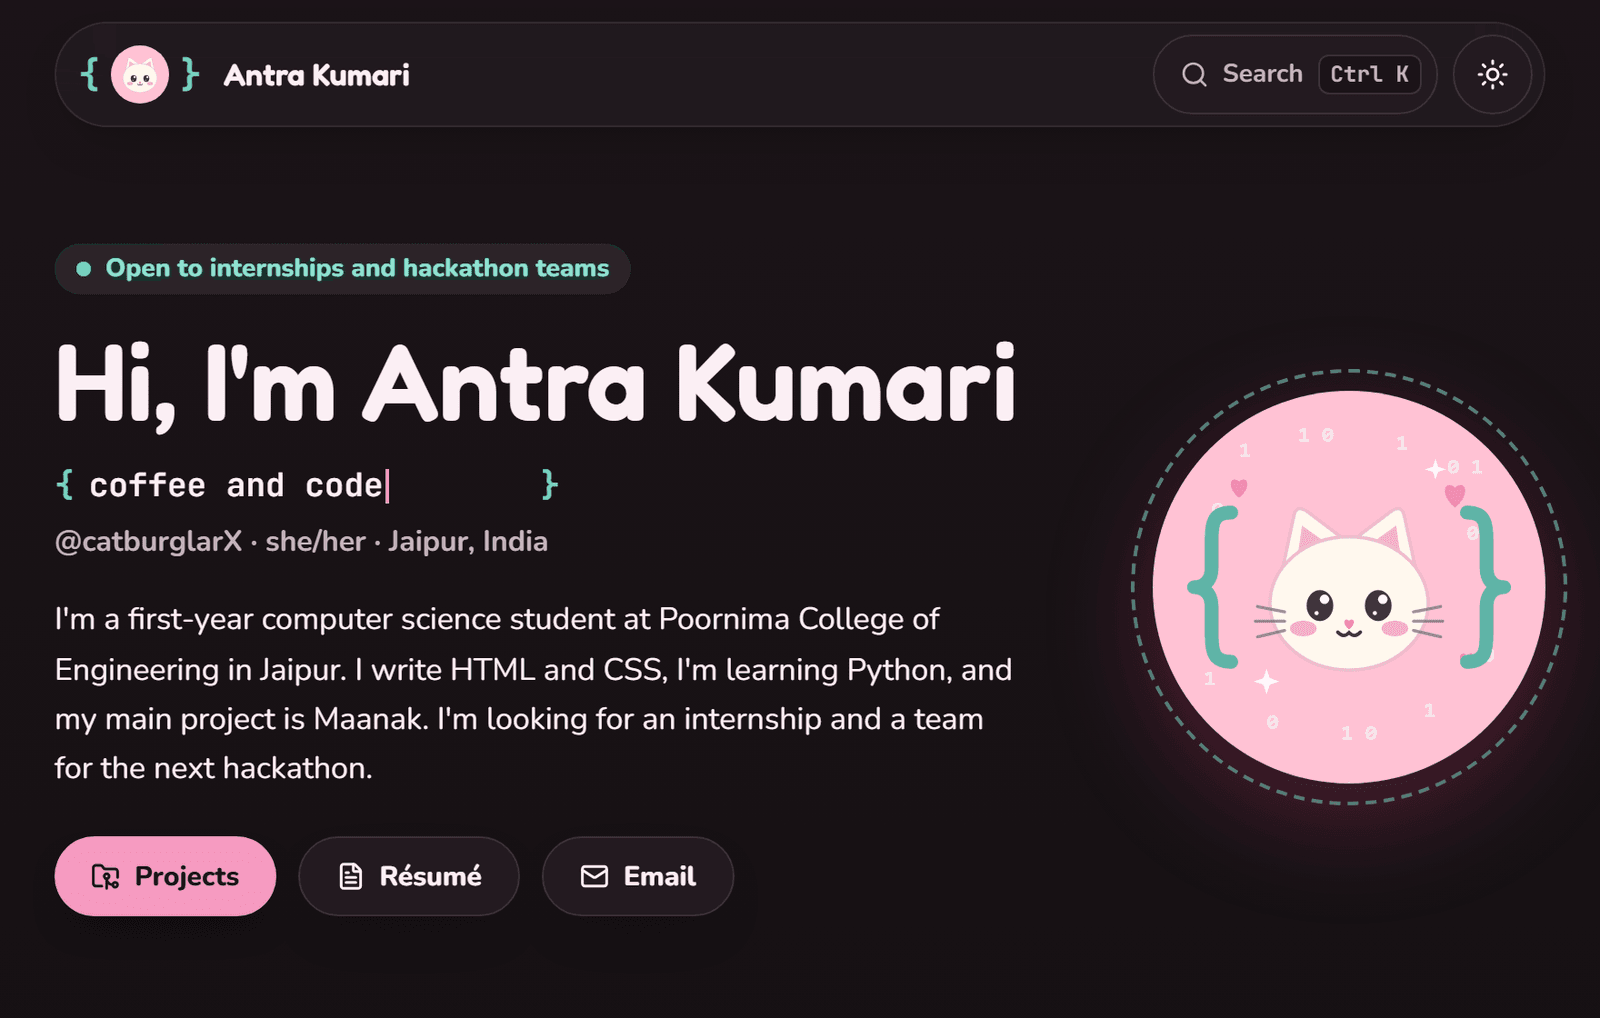
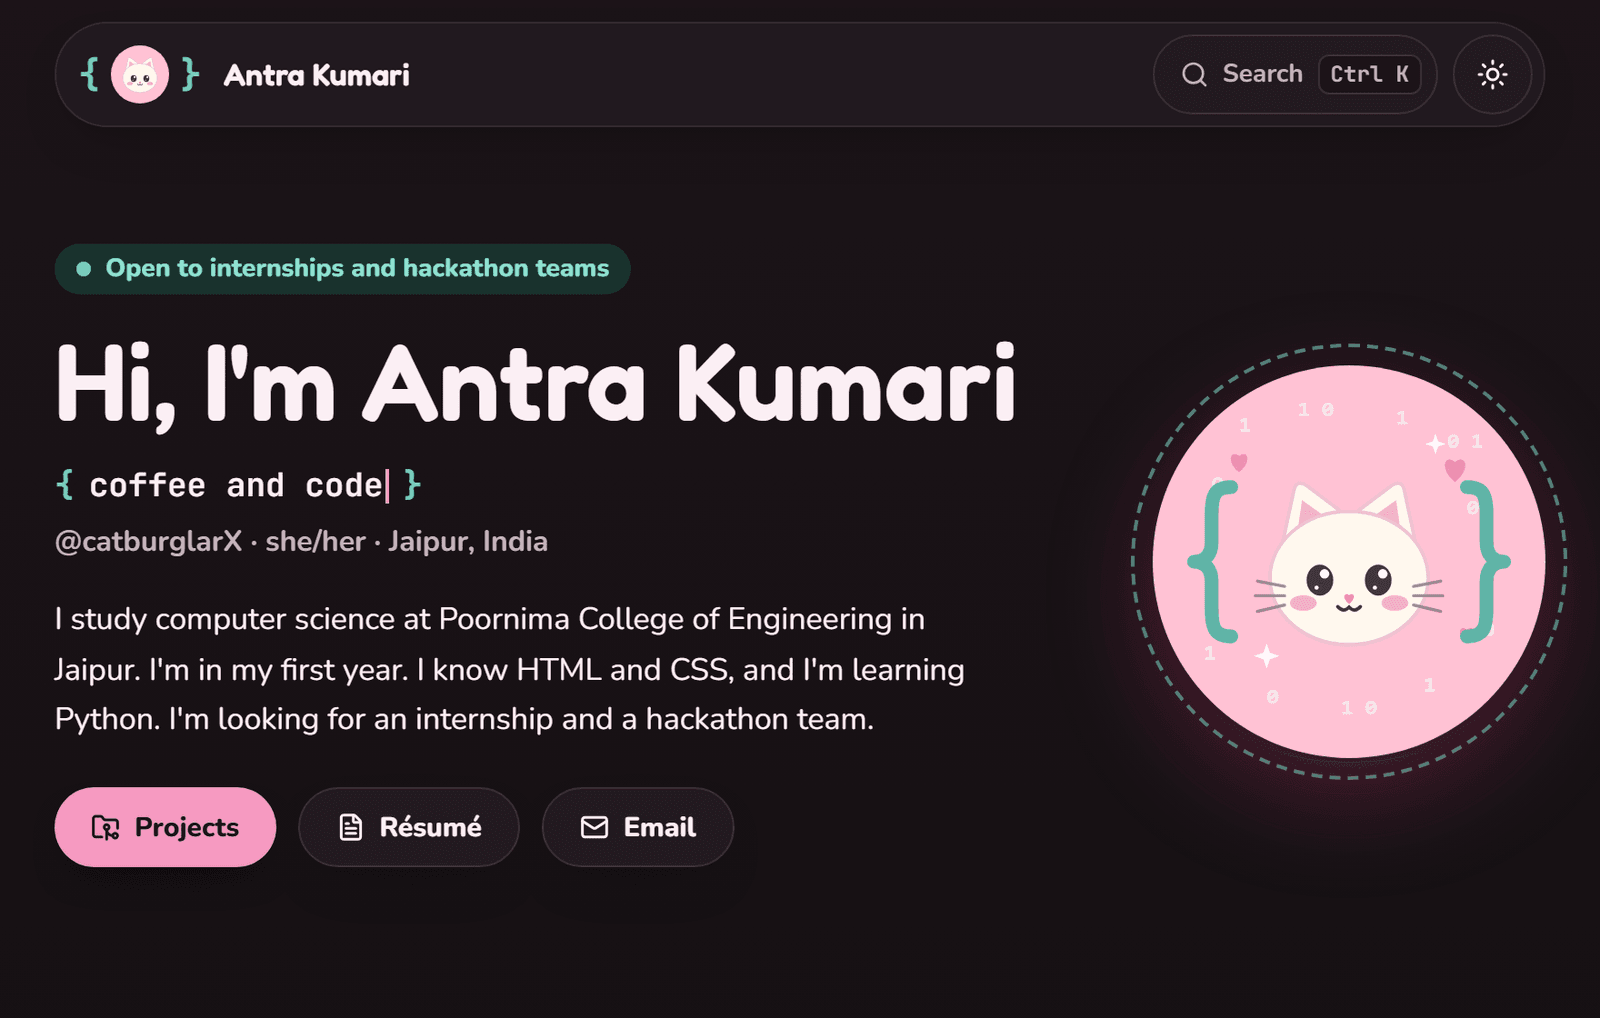
Simplify the writing and polish small details
Shorter, plainer sentences across the home page, case study, résumé,
404 and README. Streak numbers no longer overflow on small phones,
the education rows drop dates I don't have, the footer reads in two
short lines, and the 404 page has a search button that works on
touch screens.

diff --git a/src/data/profile.ts b/src/data/profile.ts
@@ -14,12 +14,13 @@ export const profile = {
   email: "connect.antrakumari@gmail.com",
   status: "Open to internships and hackathon teams",
   tagline: "coffee and { code }",
-  typedLines: ["coffee and code", "B.Tech CSE, first year", "learning Python", "building Maanak"],
-  bio: "I'm a first-year computer science student at Poornima College of Engineering in Jaipur. I write HTML and CSS, I'm learning Python, and my main project is Maanak. I'm looking for an internship and a team for the next hackathon.",
+  // Keep these about the same length, so the braces around them sit close.
+  typedLines: ["coffee and code", "CSE, first year", "learning Python", "building Maanak"],
+  bio: "I study computer science at Poornima College of Engineering in Jaipur. I'm in my first year. I know HTML and CSS, and I'm learning Python. I'm looking for an internship and a hackathon team.",
   about: [
-    "I started with HTML and CSS, and those are still the two I'm most comfortable with. This site is built on them, with a lot of care spent on how it reads on a small phone.",
-    "Maanak is the project I've spent the most time on. It records inspections of packaged goods in India. Its main rule is simple: if the photo doesn't show something, the app says it can't tell. It never turns missing evidence into a violation.",
-    "Right now I'm learning Python properly, one small program at a time. I took part in Smart India Hackathon 2026 and I want to do more hackathons, so if your team needs someone, write to me.",
+    "I started with HTML and CSS. I still like them the most. I care about small things, like how a page looks on a small phone.",
+    "My main project is Maanak. It helps officers check packaged goods in India from a photo. If the photo doesn't show something, the app says so. It never guesses.",
+    "Now I'm learning Python, one small program at a time. I took part in Smart India Hackathon 2026, and I want to join more hackathons.",
   ],
   aboutCode: {
     pronouns: "she/her",
@@ -29,7 +30,7 @@ export const profile = {
     lookingFor: ["internship", "team"],
     fuel: "coffee",
   },
-  catLines: ["meow", "hi, I'm Antra's cat", "git push?", "more coffee, please", "purr"],
+  catLines: ["meow", "hi there", "git push?", "more coffee, please", "purr"],
   skills: [
     {
       group: "Languages",
@@ -54,34 +55,32 @@ export const profile = {
     {
       school: "Poornima College of Engineering",
       detail: "B.Tech, Computer Science and Engineering",
-      period: "2026 to now",
+      period: "Since 2026",
       current: true,
       logo: "poornima",
     },
     {
       school: "Birla Open Minds International School",
       detail: "Classes 11 and 12",
-      period: "Senior school",
       logo: "birla-open-minds",
     },
     {
       school: "Banasthali Vidyapith",
       detail: "Classes 6 to 10",
-      period: "Middle and high school",
       logo: "banasthali",
     },
   ],
   events: [
     {
-      title: "Smart India Hackathon 2026",
+      title: "Smart India Hackathon",
       when: "2026",
-      description: "I took part in SIH 2026, India's national hackathon for students.",
+      description: "I took part in SIH 2026. It is India's national hackathon for students.",
       logo: "sih",
       url: "https://sih.gov.in/",
     },
   ],
   lookingForTeam:
-    "I'm looking for a team for my next hackathon. I can build the front end and I'm getting better at Python.",
+    "I want to join a team for my next hackathon. I can build web pages, and I'm getting better at Python.",
   socials: [
     { name: "GitHub", handle: "catburglarX", url: "https://github.com/catburglarX" },
     { name: "LinkedIn", handle: "catburglarX", url: "https://www.linkedin.com/in/catburglarX" },

diff --git a/src/components/home/activity.tsx b/src/components/home/activity.tsx
@@ -34,24 +34,31 @@ function monthLabels(weeks: Contributions["weeks"]) {
   return labels;
 }
 
-function plural(n: number, word: string) {
-  return `${n.toLocaleString("en-GB")} ${word}${n === 1 ? "" : "s"}`;
-}
-
 function Calendar({ data }: { data: Contributions }) {
   const labels = monthLabels(data.weeks);
   const columns = `repeat(${data.weeks.length}, 11px)`;
   return (
     <>
-      <dl className="mb-4 grid grid-cols-3 gap-3 text-center sm:text-left">
-        {[
-          ["in the last year", plural(data.total, "contribution")],
-          ["current streak", plural(data.currentStreak, "day")],
-          ["longest streak", plural(data.longestStreak, "day")],
-        ].map(([label, value]) => (
-          <div key={label} className="rounded-control bg-muted px-3 py-2.5">
-            <dt className="text-xs font-bold text-muted-foreground">{label}</dt>
-            <dd className="font-heading text-lg font-semibold sm:text-xl">{value}</dd>
+      <dl className="mb-5 grid grid-cols-3 gap-2 sm:gap-3">
+        {(
+          [
+            [data.total === 1 ? "contribution this year" : "contributions this year", data.total],
+            [
+              data.currentStreak === 1 ? "day in a row now" : "days in a row now",
+              data.currentStreak,
+            ],
+            ["most days in a row", data.longestStreak],
+          ] as const
+        ).map(([label, value]) => (
+          // Number first on screen, label first for screen readers.
+          <div
+            key={label}
+            className="flex flex-col-reverse rounded-control bg-muted px-3 py-3 text-center sm:text-left"
+          >
+            <dt className="text-xs leading-snug font-bold text-muted-foreground">{label}</dt>
+            <dd className="font-heading text-2xl font-semibold sm:text-3xl">
+              {value.toLocaleString("en-GB")}
+            </dd>
           </div>
         ))}
       </dl>
@@ -140,7 +147,7 @@ export async function Activity() {
       <SectionHeading
         id="activity"
         title="activity"
-        intro="My real GitHub contribution calendar. It updates once a day."
+        intro="My GitHub contributions from the last year. This updates every day."
       />
       <BlurFade className="card p-5 sm:p-6">
         {data ? <Calendar data={data} /> : <Fallback />}

diff --git a/src/components/home/education.tsx b/src/components/home/education.tsx
@@ -10,25 +10,32 @@ export function Education() {
       <ol className="grid gap-3">
         {profile.education.map((entry, i) => (
           <li key={entry.school}>
-            <BlurFade
-              delay={i * 0.06}
-              className="card flex flex-wrap items-center gap-4 px-4 py-4 sm:flex-nowrap sm:px-5"
-            >
+            <BlurFade delay={i * 0.06} className="card flex items-center gap-4 px-4 py-4 sm:px-5">
               <LogoTile name={entry.logo} />
               <div className="min-w-0 flex-1">
-                <h3 className="flex flex-wrap items-center gap-2 font-sans text-base font-extrabold">
-                  {entry.school}
+                <h3 className="font-sans text-base font-extrabold">{entry.school}</h3>
+                <p className="text-[0.9375rem] text-muted-foreground">{entry.detail}</p>
+                {"period" in entry && entry.period && (
+                  <p className="mt-1 flex items-center gap-2 font-mono text-xs text-muted-foreground sm:hidden">
+                    {entry.current && (
+                      <span className="rounded-full bg-accent-soft px-2 py-0.5 font-bold text-accent-foreground">
+                        now
+                      </span>
+                    )}
+                    {entry.period}
+                  </p>
+                )}
+              </div>
+              {"period" in entry && entry.period && (
+                <p className="hidden items-center gap-2 font-mono text-xs whitespace-nowrap text-muted-foreground sm:flex">
                   {entry.current && (
-                    <span className="rounded-full bg-accent-soft px-2 py-0.5 font-mono text-xs font-bold text-accent-foreground">
+                    <span className="rounded-full bg-accent-soft px-2 py-0.5 font-bold text-accent-foreground">
                       now
                     </span>
                   )}
-                </h3>
-                <p className="text-[0.9375rem] text-muted-foreground">{entry.detail}</p>
-              </div>
-              <p className="w-full pl-16 font-mono text-xs text-muted-foreground sm:w-auto sm:pl-0 sm:text-right">
-                {entry.period}
-              </p>
+                  {entry.period}
+                </p>
+              )}
             </BlurFade>
           </li>
         ))}

diff --git a/src/app/not-found.tsx b/src/app/not-found.tsx
@@ -1,5 +1,7 @@
-import { Home } from "lucide-react";
+import { Home, Search } from "lucide-react";
 import Link from "next/link";
+import { SearchButton } from "@/components/layout/search-button";
+import { ShortcutKey } from "@/components/layout/shortcut-key";
 import { CatSleeping } from "@/components/mascot/cat";
 import { buttonStyles } from "@/components/ui/styles";
 
@@ -22,25 +24,19 @@ export default function NotFound() {
       <p className="mt-6 font-mono text-sm font-bold text-muted-foreground">404</p>
       <h1 className="mt-1 text-4xl sm:text-5xl">This page is asleep</h1>
       <p className="mt-3 max-w-[44ch] text-muted-foreground">
-        The link might be old, or the address has a typo. The cat is fine, it&apos;s just napping on
-        the page you wanted.
+        This link may be old, or the address has a typo. The cat is just sleeping on it.
       </p>
       <div className="mt-6 flex flex-wrap justify-center gap-3">
         <Link href="/" className={buttonStyles.primary}>
           <Home aria-hidden="true" className="size-4" strokeWidth={2.25} />
           Go home
         </Link>
+        <SearchButton icon={<Search aria-hidden="true" className="size-4" strokeWidth={2.25} />}>
+          Search the site
+        </SearchButton>
       </div>
-      <p className="mt-5 text-sm text-muted-foreground">
-        Or press{" "}
-        <kbd className="rounded-md border border-border bg-card px-1.5 py-0.5 text-xs font-bold text-foreground">
-          Ctrl K
-        </kbd>{" "}
-        (
-        <kbd className="rounded-md border border-border bg-card px-1.5 py-0.5 text-xs font-bold text-foreground">
-          ⌘K
-        </kbd>{" "}
-        on a Mac) to search the site.
+      <p className="mt-5 hidden text-sm text-muted-foreground pointer-fine:block">
+        You can also press <ShortcutKey /> to search.
       </p>
     </main>
   );

diff --git a/src/components/home/hackathons.tsx b/src/components/home/hackathons.tsx
@@ -11,7 +11,7 @@ export function Hackathons() {
       <SectionHeading
         id="hackathons"
         title="hackathons"
-        intro="Events I've taken part in, and the next one I'm looking for."
+        intro="Hackathons I've been part of, and what I want next."
       />
       <ol className="relative grid gap-4 before:absolute before:top-6 before:bottom-6 before:left-[27px] before:w-0.5 before:bg-[repeating-linear-gradient(to_bottom,var(--blush)_0_6px,transparent_6px_12px)]">
         {profile.events.map((event) => (
@@ -30,7 +30,7 @@ export function Hackathons() {
                   rel="noopener noreferrer"
                   className="link mt-1 inline-flex min-h-11 items-center gap-1 text-sm"
                 >
-                  About {event.title.replace(/\s\d{4}$/, "")}
+                  {new URL(event.url).hostname.replace(/^www\./, "")}
                   <ExternalLink aria-hidden="true" className="size-3.5" strokeWidth={2.25} />
                   <span className="sr-only">(opens in a new tab)</span>
                 </a>
@@ -44,13 +44,13 @@ export function Hackathons() {
           </span>
           <BlurFade className="rounded-card border-2 border-dashed border-border px-5 py-4">
             <p className="font-mono text-xs text-muted-foreground">next</p>
-            <h3 className="mt-0.5 text-lg">Looking for a team</h3>
+            <h3 className="mt-0.5 text-lg">My next hackathon</h3>
             <p className="mt-1 text-[0.9375rem] text-muted-foreground">{profile.lookingForTeam}</p>
             <Link
               href="/#contact"
               className="link mt-1 inline-flex min-h-11 items-center gap-1 text-sm"
             >
-              Invite me
+              Ask me to join
               <ArrowRight aria-hidden="true" className="size-3.5" strokeWidth={2.25} />
             </Link>
           </BlurFade>

diff --git a/src/app/resume/page.tsx b/src/app/resume/page.tsx
@@ -16,9 +16,9 @@ export const metadata: Metadata = {
 // What the résumé says about each project. Kept short so the page fits on one A4 sheet.
 const HIGHLIGHTS: Record<string, string[]> = {
   maanak: [
-    "Web app that records inspections of packaged goods from photos, with OCR in English and Hindi and a frozen, hashed report at the end.",
-    "Designed so missing evidence is never reported as a violation: 0 non-compliant findings before officer review across 14 real package photos.",
-    "321 unit tests, 0 axe violations across 14 public pages, and a CI pipeline of seven jobs on every push.",
+    "A web app that checks packaged goods from a photo. It reads labels in English and Hindi and makes a locked report.",
+    "It never guesses when something is missing. Across 14 real packet photos, it raised 0 violations before an officer checked them.",
+    "321 unit tests, no accessibility errors on 14 public pages, and 7 automatic checks on every push.",
   ],
 };
 
@@ -50,7 +50,7 @@ export default async function ResumePage() {
       className="mx-auto w-[min(820px,calc(100%-40px))] pt-10 outline-none print:w-full print:pt-0"
     >
       <div className="no-print mb-6 flex flex-wrap items-center justify-between gap-3">
-        <p className="text-muted-foreground">One page. Prints cleanly on A4.</p>
+        <p className="text-muted-foreground">Fits on one A4 page.</p>
         <div className="flex flex-wrap gap-3">
           <a href={assetPath(profile.resumePdf)} download className={buttonStyles.primary}>
             <Download aria-hidden="true" className="size-4" strokeWidth={2.25} />

diff --git a/src/components/home/hero.tsx b/src/components/home/hero.tsx
@@ -35,15 +35,18 @@ export function Hero() {
         </p>
         <p className="mx-auto mt-4 max-w-[52ch] text-[1.0625rem] sm:mx-0">{profile.bio}</p>
         <div className="mt-6 flex flex-wrap justify-center gap-3 sm:justify-start">
-          <Link href="/#projects" className={buttonStyles.primary}>
+          <Link href="/#projects" className={`${buttonStyles.primary} w-full sm:w-auto`}>
             <FolderGit2 aria-hidden="true" className="size-4" strokeWidth={2.25} />
             Projects
           </Link>
-          <Link href="/resume/" className={buttonStyles.ghost}>
+          <Link href="/resume/" className={`${buttonStyles.ghost} flex-1 sm:flex-none`}>
             <FileText aria-hidden="true" className="size-4" strokeWidth={2.25} />
             Résumé
           </Link>
-          <a href={`mailto:${profile.email}`} className={buttonStyles.ghost}>
+          <a
+            href={`mailto:${profile.email}`}
+            className={`${buttonStyles.ghost} flex-1 sm:flex-none`}
+          >
             <Mail aria-hidden="true" className="size-4" strokeWidth={2.25} />
             Email
           </a>

diff --git a/src/app/projects/page.tsx b/src/app/projects/page.tsx
@@ -6,7 +6,7 @@ import { absoluteUrl } from "@/lib/site";
 
 export const metadata: Metadata = {
   title: "Projects",
-  description: "Every project Antra Kumari has built, with a case study for each.",
+  description: "Everything Antra Kumari has built, with a write-up for each project.",
   alternates: { canonical: absoluteUrl("/projects/") },
 };
 
@@ -24,8 +24,8 @@ export default async function ProjectsPage() {
         <Braces>projects</Braces>
       </h1>
       <p className="mt-3 mb-8 max-w-[60ch] text-muted-foreground">
-        Everything I&apos;ve built, newest first. Pick a tag to filter. I&apos;m in my first year,
-        so the list is short for now. New work goes here when it&apos;s finished.
+        Everything I&apos;ve built. Pick a tag to filter. I&apos;m in my first year, so the list is
+        short for now.
       </p>
       <ProjectFilter projects={metas} tags={tags} />
     </main>

diff --git a/src/app/layout.tsx b/src/app/layout.tsx
@@ -24,7 +24,7 @@ const jetbrains = JetBrains_Mono({
 });
 
 const ogAlt = `${profile.name}, ${profile.role}. coffee and { code }`;
-const description = `${profile.name} is a ${profile.role.toLowerCase()} at Poornima College of Engineering, Jaipur. HTML, CSS, learning Python, and the Maanak project. Open to internships and hackathon teams.`;
+const description = `${profile.name} is a first-year computer science student at Poornima College of Engineering, Jaipur. She knows HTML and CSS, is learning Python, and built Maanak. Open to internships and hackathon teams.`;
 
 export const metadata: Metadata = {
   // Includes the base path, so generated image URLs land under /catburglarx.

diff --git a/src/components/home/contact.tsx b/src/components/home/contact.tsx
@@ -16,8 +16,8 @@ export function Contact() {
           <Braces>contact</Braces>
         </h2>
         <p className="mx-auto mt-3 max-w-[52ch] text-muted-foreground">
-          Have an internship, a hackathon team or a project idea? Email me, or find me on any of the
-          profiles below. The handle is the same everywhere.
+          Have an internship or a hackathon team for me? Send me an email. You can also find me as @
+          {profile.handle} on all of these.
         </p>
         <p className="mt-2 font-mono text-sm font-bold break-all">{profile.email}</p>
         <div className="mt-6 flex flex-wrap justify-center gap-3">

diff --git a/src/components/layout/search-button.tsx b/src/components/layout/search-button.tsx
@@ -1,0 +1,21 @@
+"use client";
+
+import type { ReactNode } from "react";
+import { useApp } from "@/components/providers/app-provider";
+import { buttonStyles } from "@/components/ui/styles";
+
+/** Opens the command menu. Used on the 404 page, where a shortcut alone won't help on a phone. */
+export function SearchButton({ icon, children }: { icon: ReactNode; children: ReactNode }) {
+  const { openCommand } = useApp();
+  return (
+    <button
+      type="button"
+      onClick={openCommand}
+      aria-haspopup="dialog"
+      className={buttonStyles.ghost}
+    >
+      {icon}
+      {children}
+    </button>
+  );
+}

diff --git a/src/components/layout/footer.tsx b/src/components/layout/footer.tsx
@@ -21,13 +21,15 @@ export function Footer() {
         ))}
       </ul>
       <p>
-        Made by {profile.name} with coffee and{" "}
+        Made with coffee and{" "}
         <code className="rounded-md border border-border bg-card px-1.5 py-0.5 font-mono text-xs text-foreground">
           {"{ code }"}
         </code>
-        . © {new Date().getFullYear()}
       </p>
       <p className="mt-1">
+        © {new Date().getFullYear()} {profile.name}
+      </p>
+      <p className="mt-2">
         <Link href="/resume/" className="link">
           Résumé
         </Link>
